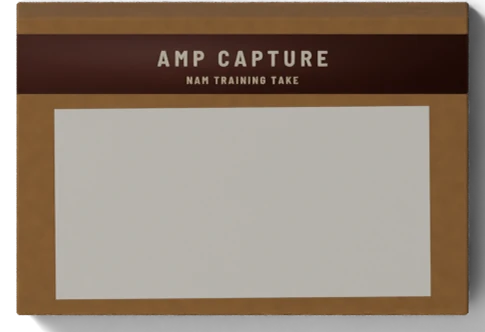
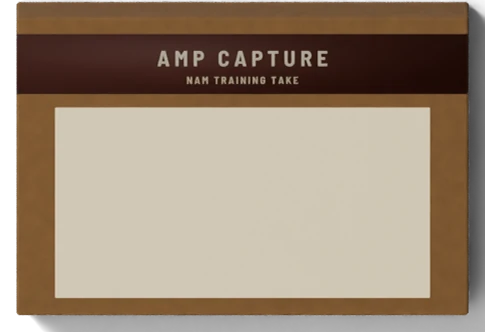
Box labels level and cream: paper labels lifted slightly (PAPER_LIFT 0.4), warmer stock; level box proof posted
Claude-Session: https://claude.ai/code/session_01DHZSZDGP6V114jbGYKQjna

diff --git a/design/render/ircapture_tape.py b/design/render/ircapture_tape.py
@@ -497,6 +497,9 @@ def cart_label_tex(w, h, ppcm, prog=None):
     return np.asarray(im, np.float32) / 255.0
 
 
+PAPER_LIFT = float(os.environ.get('PAPER_LIFT', '0.4'))
+
+
 def to_linear(arr):
     """sRGB-coded pixels (a PIL picture / 255) to the linear values img_tex expects. Passed as they were, a cream
     label rendered washed out and grey (the round 3 proofs, 11-04)."""
@@ -511,7 +514,11 @@ def img_plane(name, arr, w, h, x, y, z, rough=0.7):
     m = mat(name, srgb('#e8dec4'), rough=rough); nt = m.node_tree
     t = SG.img_tex(nt, name + 'tx', to_linear(arr), True, 'CLIP')
     uv = nt.nodes.new('ShaderNodeTexCoord'); nt.links.new(uv.outputs['UV'], t.inputs['Vector'])
-    nt.links.new(t.outputs['Color'], nt.nodes['Principled BSDF'].inputs['Base Color'])
+    bs = nt.nodes['Principled BSDF']
+    nt.links.new(t.outputs['Color'], bs.inputs['Base Color'])
+    # Paper under the studio light rendered as khaki (AgX and a 0.45 key on a near-white albedo); a faint self-lit
+    # share of the label's own colour brings it to the cream it is in hand. Not visible as a glow.
+    nt.links.new(t.outputs['Color'], bs.inputs['Emission Color']); bs.inputs['Emission Strength'].default_value = PAPER_LIFT
     co = obj_coords(nt); add_bump(m, noise(nt, co, 40.0, 3.0, 0.6), 0.08, 0.002)
     o.data.materials.append(m)
     return o

diff --git a/design/render/ircapture_tape_layers.py b/design/render/ircapture_tape_layers.py
@@ -350,7 +350,7 @@ def job_cart():
             gr = rbox('grip', 0.06, ch_ - 0.7, 0.05, 1.4, 0.02); gr.location = (sx0 + gx * (cw_ / 2 - 0.45 - i * 0.16), sy0 - 0.15, 0)
             gr.data.materials.append(shm)
     lw, lh = 12.6, 1.9
-    blank = np.ones((int(lh * 110), int(lw * 110), 3), np.float32) * (np.array([233, 224, 199], np.float32) / 255.0)
+    blank = np.ones((int(lh * 110), int(lw * 110), 3), np.float32) * (np.array([250, 230, 180], np.float32) / 255.0)
     T.img_plane('cartlabel', blank, lw, lh, sx0, sy0 - 0.15, 1.402)
     Dc = '#cfc9bd'
     T.ink('PLAY / RECORD', sx0 - sw / 2 + 1.6, sy0 + sh / 2 + 0.55, 0.0, 0.26, color=Dc)
@@ -502,7 +502,7 @@ def job_box():
         T.ink(B['band'], 0, H_ / 2 - 1.55, 0.012, 0.62, color='#e8dcc0', track=0.3)
         T.ink(B['sub'], 0, H_ / 2 - 2.35, 0.012, 0.26, color='#d8c8a8', track=0.25, w=W_ - 2)
         lw, lh, lx, ly = B['label']
-        blank = np.ones((int(lh * 60), int(lw * 60), 3), np.float32) * (np.array([252, 238, 200], np.float32) / 255.0)
+        blank = np.ones((int(lh * 60), int(lw * 60), 3), np.float32) * (np.array([250, 230, 180], np.float32) / 255.0)
         lab = T.img_plane('label' + key, blank, lw, lh, lx, ly, 0.004)
         lab.rotation_euler = (0, 0, math.radians(B['tilt']))
         full(s, 'box-' + key)
